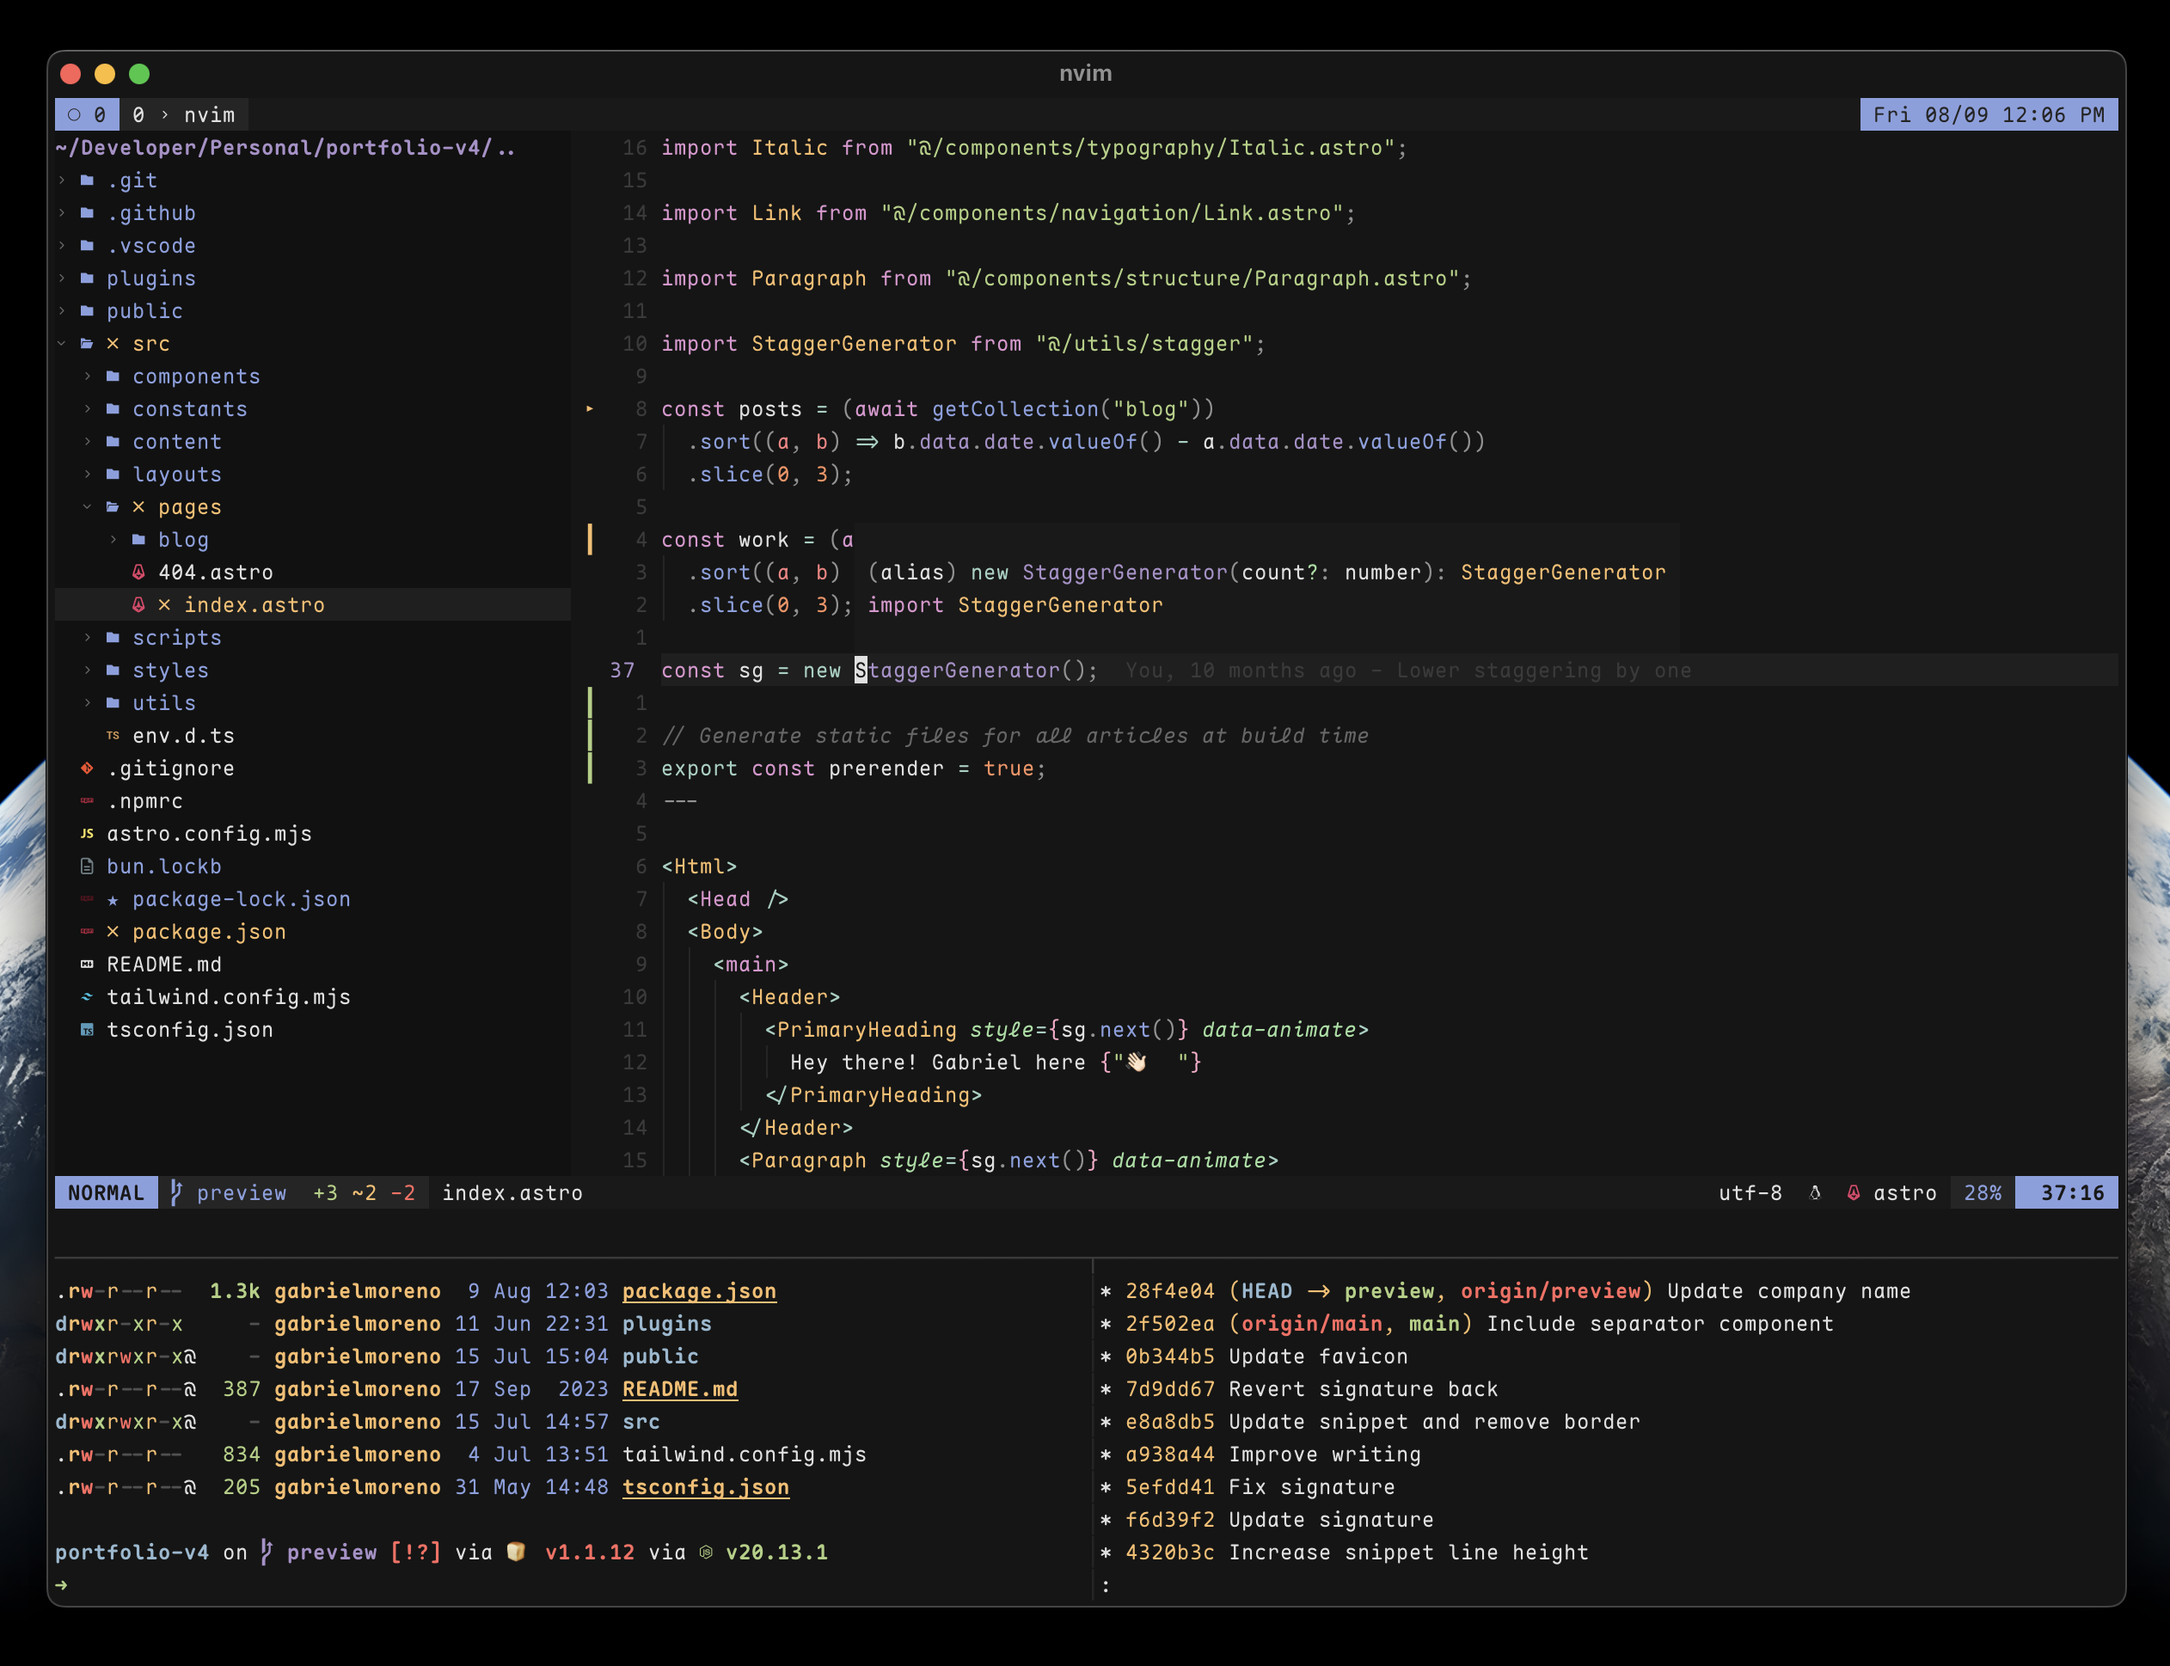
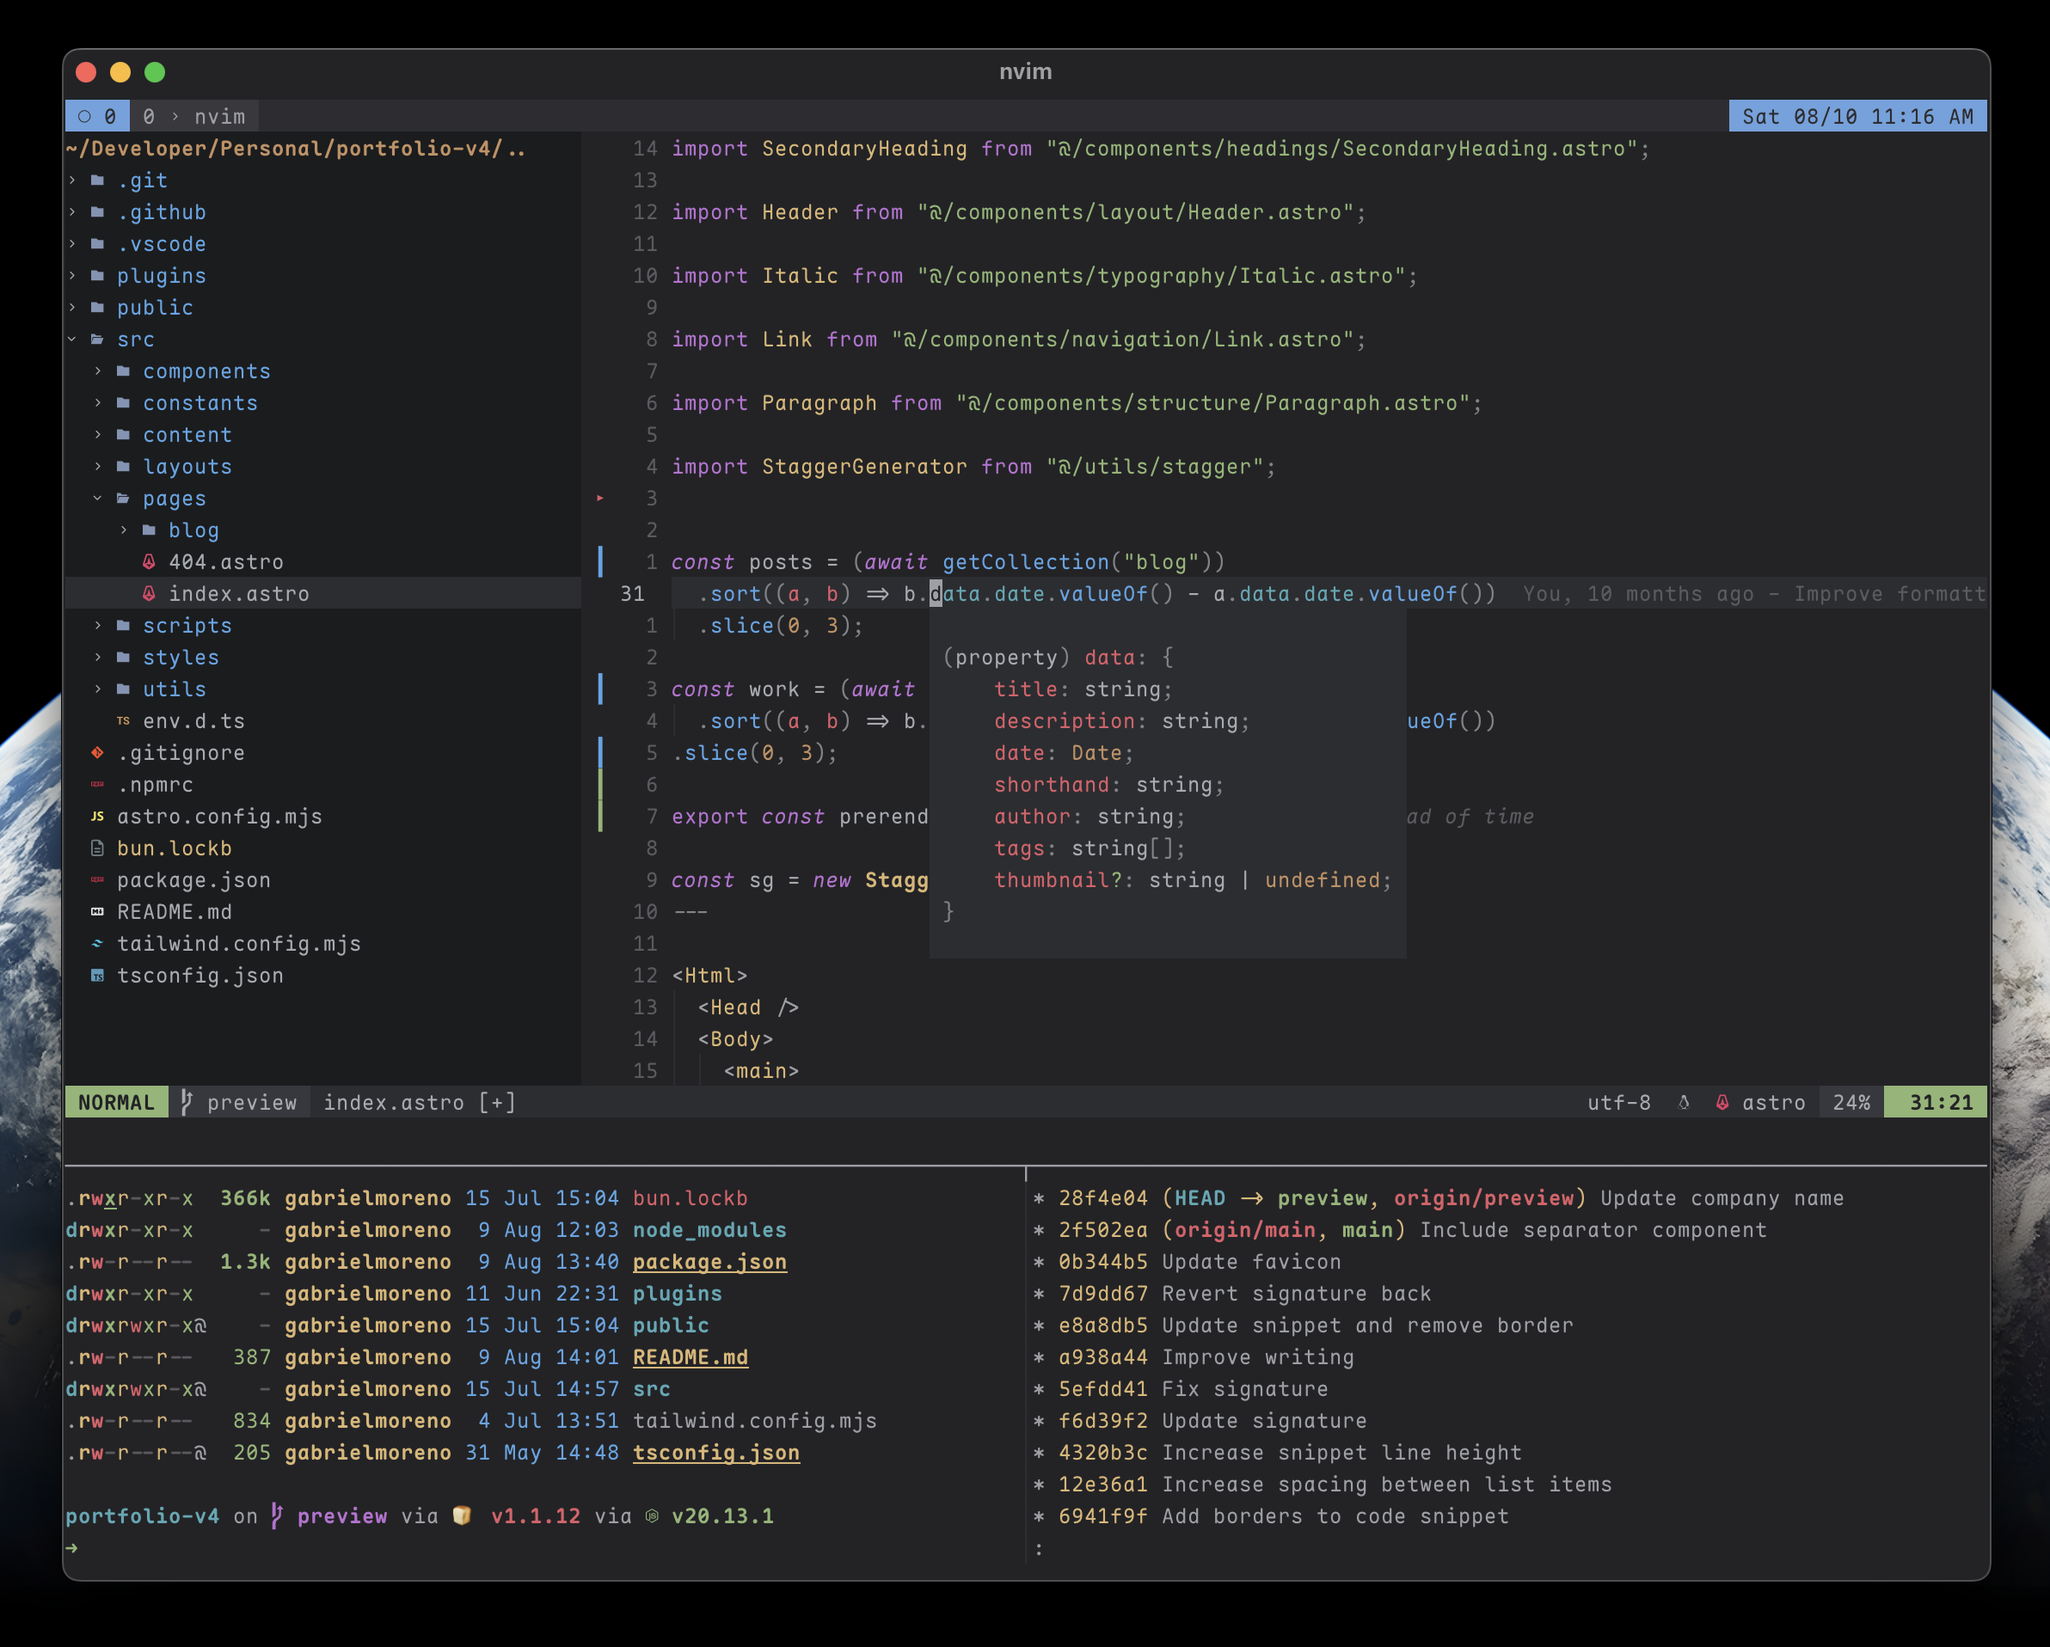
Rollback colorscheme to one dark

diff --git a/README.md b/README.md
@@ -22,7 +22,7 @@ As a command-line user, most of my tools are terminal-based, therefore I can gro
 
 ### Terminal emulator
 
-For my terminal emulator, I use [Ghostty](https://github.com/ghostty-org), by [Mitchell Hashimoto](https://mitchellh.com/ghostty), along with a custom-made [Catppuccin](https://github.com/catppuccin/nvim) color palette.
+For my terminal emulator, I use [Ghostty](https://github.com/ghostty-org), by [Mitchell Hashimoto](https://mitchellh.com/ghostty), along with a custom-made [One Dark](https://github.com/navarasu/onedark.nvim) color palette.
 
 I also use [Zsh](https://www.zsh.org/) as my main interactive shell, rocking [Starship](https://starship.rs/) as my prompt, and other plugins such as:
 
